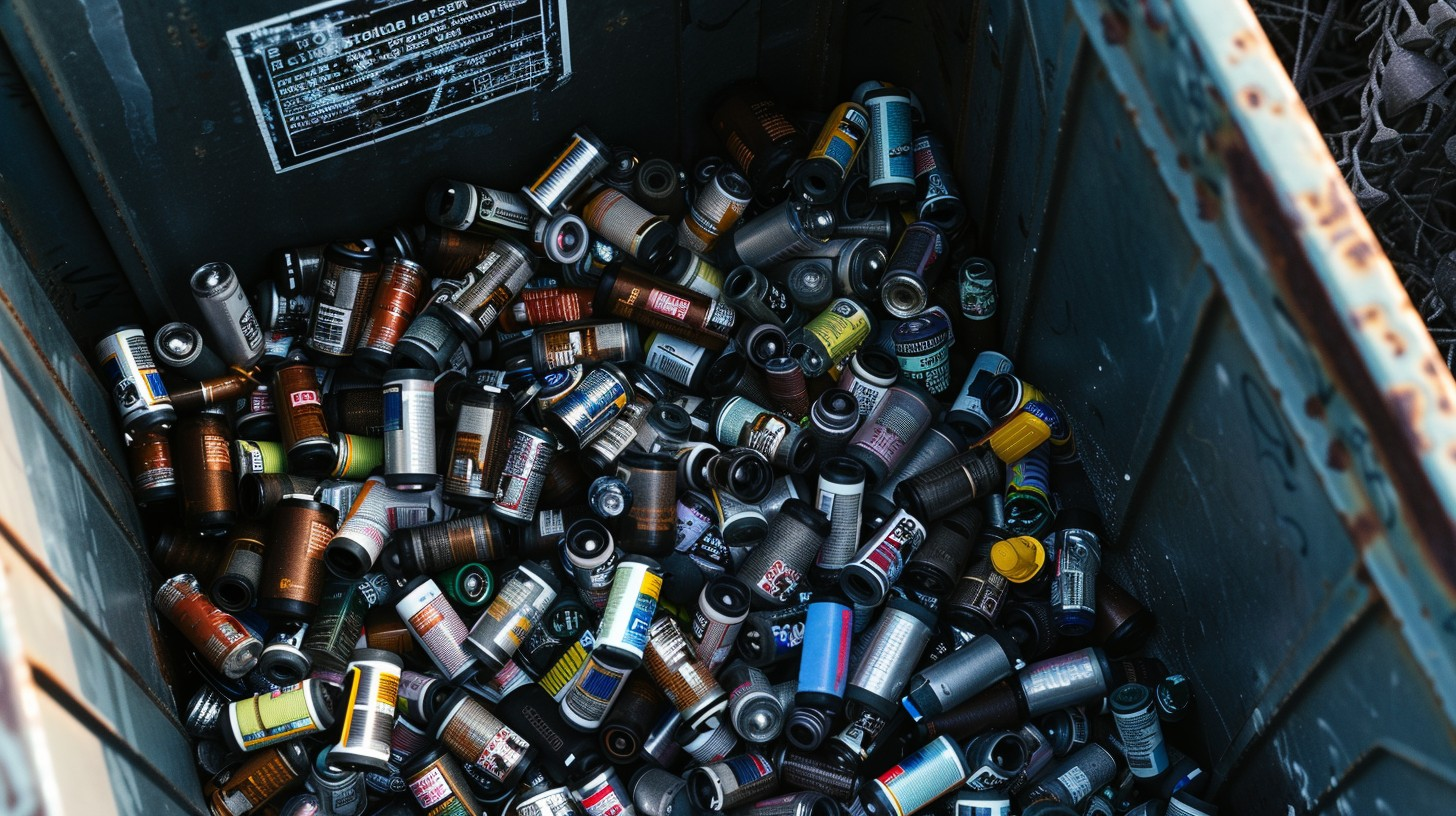
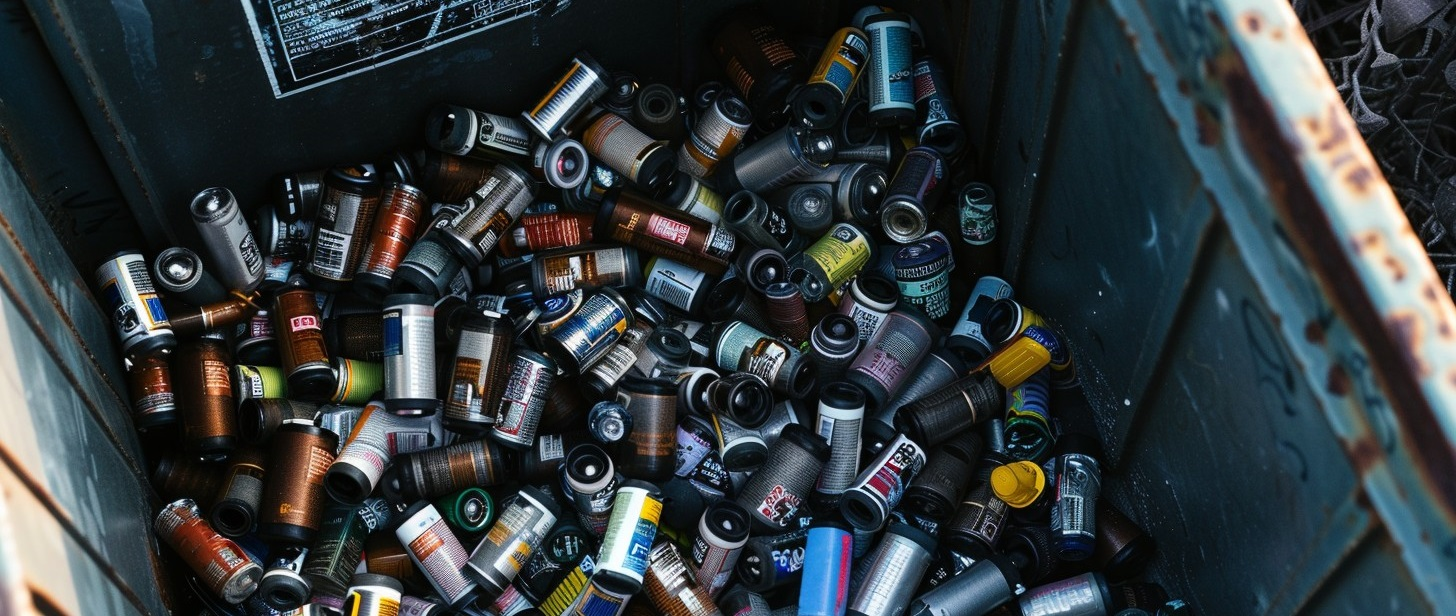
by sumit

diff --git a/app/explore/recycle/page.tsx b/app/explore/recycle/page.tsx
@@ -4,7 +4,7 @@ import Image from 'next/image';
 import AOS from 'aos';
 import 'aos/dist/aos.css';
 
-import media1 from '@/public/images/recycle.jpeg';
+import media1 from '@/public/images/real/StockCake-Discarded Battery Pile_1720800846.jpg';
 import media2 from '@/public/images/real/StockCake-Colorful Battery Collection_1720800956.jpg';
 import media3 from '@/public/images/real/StockCake-Electric Car Charging_1720801156.jpg';
 import media4 from '@/public/images/real/StockCake-Charging Electric Vehicle_1720801074.jpg';
